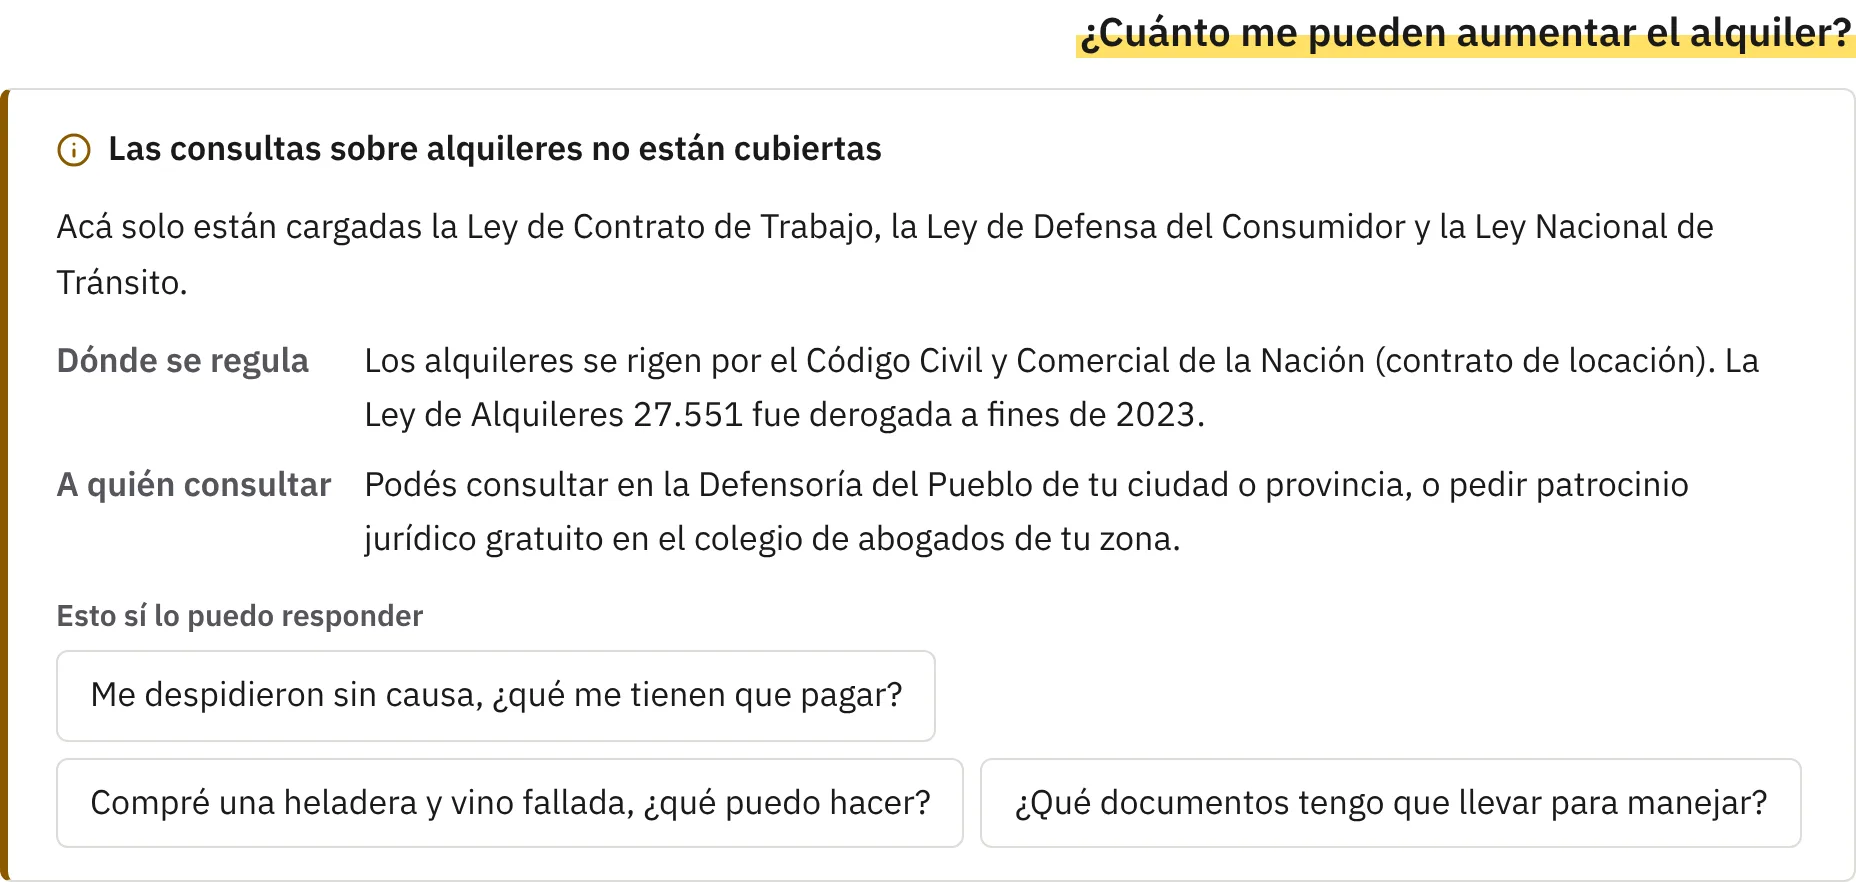
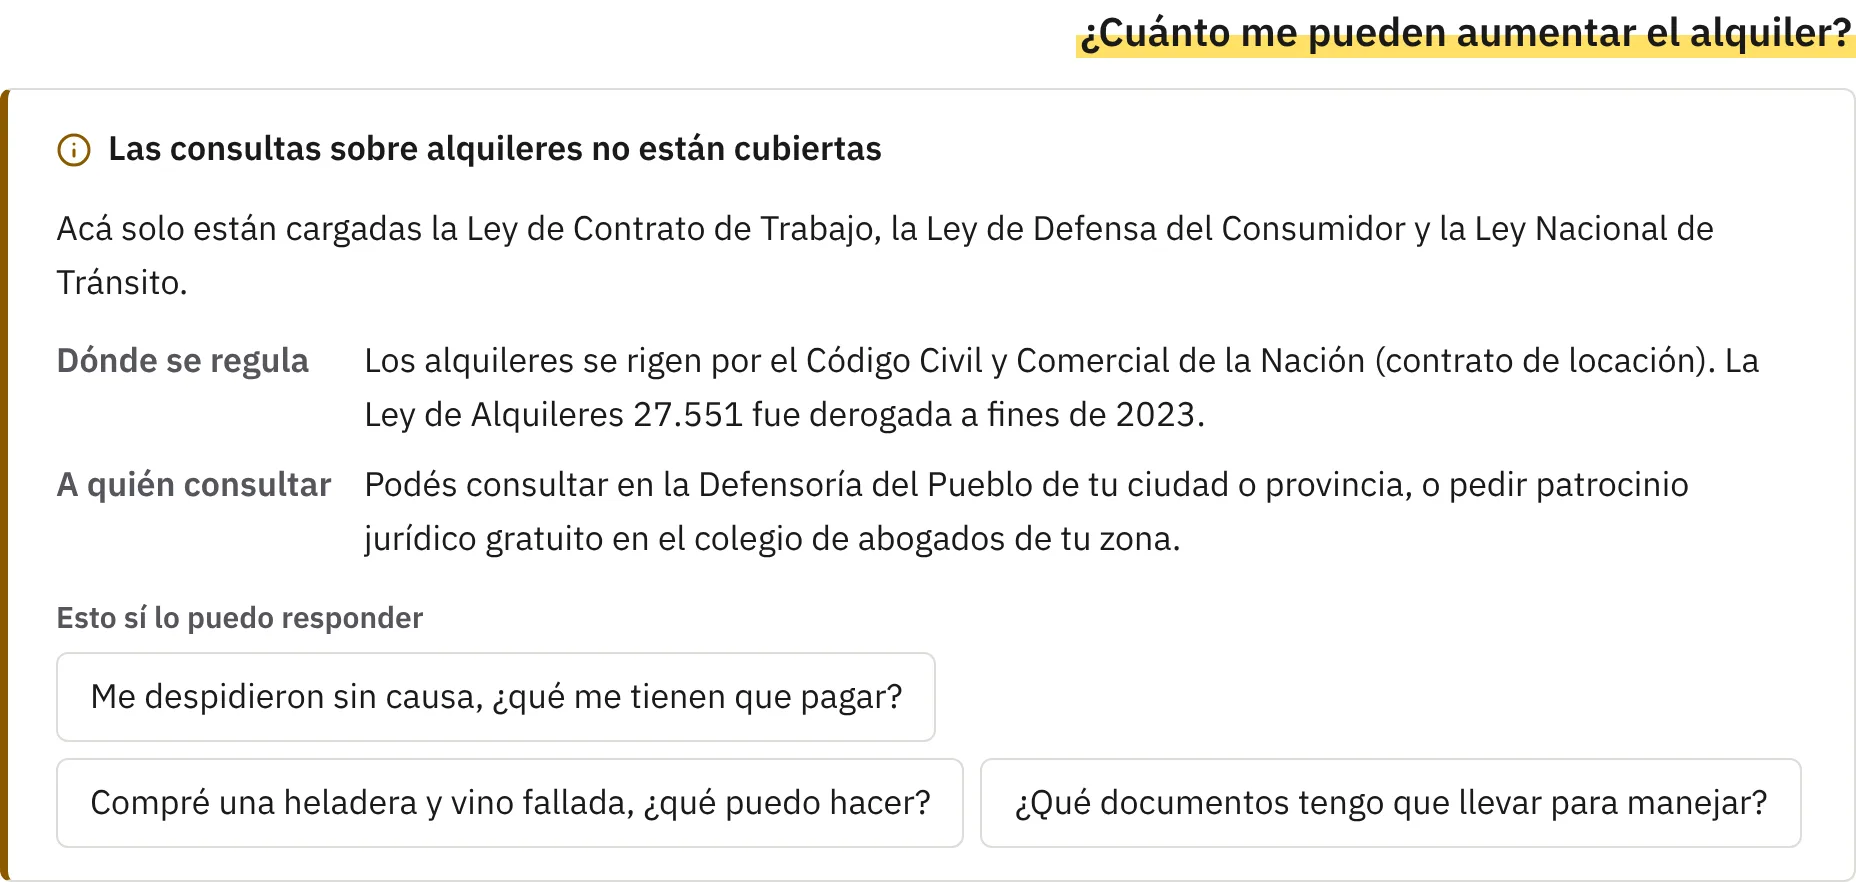
Show Gemini results and real answers in the README

Changed region(s): [[0.0312, 0.6735, 0.5, 0.8265], [0.0312, 0.2449, 0.9375, 0.2755]]

diff --git a/README.md b/README.md
@@ -55,27 +55,38 @@ Everything runs on free tiers. Embeddings are computed once by `npm run ingest`,
 
 ### Abuse
 
-A daily limit per IP (stored as a salted hash), a global daily cap on model calls, an invisible Cloudflare Turnstile check, a 300 character limit on questions, and a token limit on answers. If Gemini returns 429, the site shows "demo agotada por hoy" and stops calling it until the next day. Pages are served with a nonce-based Content-Security-Policy.
+A daily limit per IP (stored as a salted hash), a global daily cap on model calls, an invisible Cloudflare Turnstile check, a 300 character limit on questions, and a token limit on answers. If Gemini returns 429, the site shows "demo agotada por hoy" and stops calling it until the next day. A 503, which means the model is busy, gets one retry a second later. Pages are served with a nonce-based Content-Security-Policy.
 
 ## Evaluation
 
 ```bash
-LLM_PROVIDER=mock npm run eval                         # search and routing, no model
-npm run eval -- --set holdout --verbose                # questions never used for tuning
+npm run eval -- --verbose                   # provider and database from .env.local
+npm run eval -- --set holdout --verbose     # questions never used for tuning
+LLM_PROVIDER=mock npm run eval              # search and routing only, no model
 ```
 
 [`eval/questions.json`](eval/questions.json) has 30 questions: 20 with an expected article, 3 off topic, 4 on uncovered legal topics and 3 that are covered but have no clear answer in the law. They are worded differently from the examples on the home page. [`eval/holdout.json`](eval/holdout.json) has 17 more, written after the everyday-language mapping was tuned and never used to tune it.
 
-Current results with lexical search and the mock provider:
+Results with `gemini-3.1-flash-lite` and hybrid search (BM25 plus `gemini-embedding-001` vectors in pgvector):
 
 | | Main set | Holdout |
 |---|---|---|
-| Expected article in top 5 (what the model receives) | 95% (19/20) | 92% (12/13) |
-| Expected article first | 50% (10/20) | 62% (8/13) |
-| Right kind of response | 100% (27/27) | 81% (13/16) |
-| Answered when it should have declined | 0 | 2 |
+| Expected article in top 5 (what the model receives) | 100% (20/20) | 92% (12/13) |
+| Expected article first | 90% (18/20) | 77% (10/13) |
+| Right kind of response | 97% (29/30) | 94% (16/17) |
+| Answers that cite an expected article | 100% (20/20) | 100% (12/12) |
+| Answered when it should have declined | 1 | 0 |
 
-Three holdout questions end up in the wrong place. "¿En cuánto tiempo me tienen que dar los certificados?" is rejected as off topic because nothing in it points to work, even though the right article ranks first. Questions about inheritance and retirement trigger the uncovered-topic rules, but words like "falleció" and "edad" also look like work or traffic, so they reach the model. Without a model they get a wrong answer; with Gemini they're expected to come back as `not_found`. Results with Gemini and embeddings are still to be added.
+With BM25 alone the expected article came first for 50% of the main set and 62% of the holdout, so the vectors mostly help with ranking. Full reports, question by question, are in [`eval/results/`](eval/results/).
+
+Two questions fail:
+
+- "¿Cuánto sale exactamente la multa por estacionar mal en Rosario?" is expected to be declined. The model explained that fines are set in UF, each worth a liter of nafta especial, between 50 and 5,000 UF, and that the law sets no amount per city. That is correct, but the question asked for an exact figure, so it counts as a miss.
+- "Mi empleador me debe dos meses de sueldo, ¿puedo considerarme despedido?" (holdout) needs articles 242 and 246 of the Ley de Contrato de Trabajo. They rank 7th, outside the five articles the model sees, so the site says it found nothing.
+
+The certificates, inheritance and retirement questions that failed with BM25 alone now route correctly: the vector score lets the first one through, and Gemini declines the other two.
+
+Answers took 2 to 4 seconds on average. During the run the free tier was overloaded and some requests timed out after 25 seconds. The runner tries those questions again after a 30 second pause, and the report lists any that still fail.
 
 ## Running it locally
 
